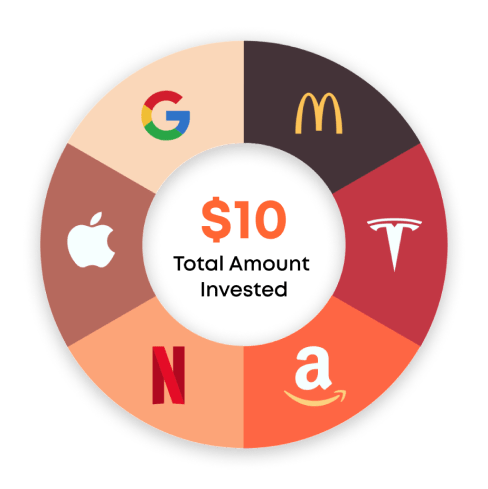
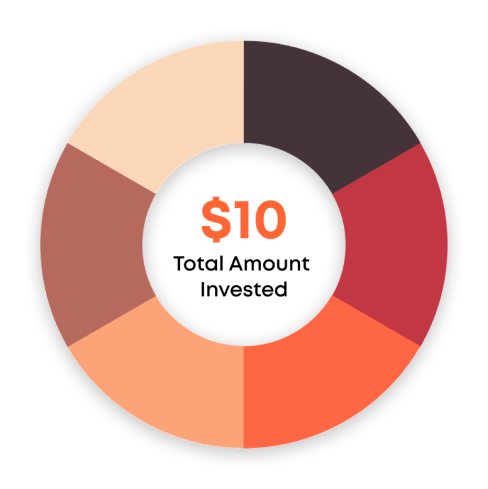
animations

diff --git a/front/style-crypto-pro.css b/front/style-crypto-pro.css
@@ -189,16 +189,44 @@ body{
     }
     .instruction__capital {
         display: inline-flex;
+        opacity: 0;
     }
     .progress {
         display: flex;
         flex-direction: column;
         align-items: center;
     }
+    .progress:nth-child(2){
+        opacity: 0;
+    } 
+    .progress:last-child{
+        opacity: 0;
+    }
     .instruction__top {
         gap: 20px;
     }
+
+    @keyframes text-transform{
+        0%{
+            transform: translate(0px, 80px);
+            opacity: 0;
+        }
+        100%{
+            transform: translate(0px, 0px);
+            opacity: 1;
+        }
+    }
+    .instruction__capital {
+        animation: text-transform 0.8s ease 0.3s forwards;
+    }
+    .progress:nth-child(2){
+        animation: text-transform 0.8s ease 0.6s forwards;
+    } 
+    .progress:last-child{
+        animation: text-transform 0.8s ease 0.9s forwards;
+    }
 }
+
 @media(max-width: 500px) {
     .progress__num {
         font-size: 46px;
@@ -256,6 +284,36 @@ body{
     font-weight: 600;
     line-height: 1.2;
 }
+@media (min-width: 890px) {
+    .instruction__container .section__text-title {
+        opacity: 0;
+    }
+    .instruction__container .section__text-sub-title{
+        opacity: 0;
+    }
+    .instruction__container .section__item-list {
+        opacity: 0;
+    }
+    @keyframes text-transform{
+        0%{
+            transform: translate(0px, 100px);
+            opacity: 0;
+        }
+        100%{
+            transform: translate(0px, 0px);
+            opacity: 1;
+        }
+    }
+    .instruction__container .section__text-title {
+        animation: text-transform 0.8s ease 0.3s forwards;
+    }
+    .instruction__container .section__text-sub-title{
+        animation: text-transform 0.8s ease 0.6s forwards;
+    }
+    .instruction__container .section__item-list {
+        animation: text-transform 0.8s ease 0.9s forwards;
+    }
+}
 
 .section__text-sub-title {
     color: #bebebe;
@@ -306,24 +364,156 @@ body{
 
 /*_________________________________________________________________________-*/
 
-
+.collect__container .section__images-wrapper{
+    min-width: 360px;
+}
 .collect__container > .section{
     flex-direction: row-reverse;
 }
 .collect__container > .section .section__images{
     width: 500px;
     position: relative;
+    border-radius: 50%;
 }
+.collect__container > .section .section__images > img{
+    animation: rotate 18s linear infinite normal 0s;
+}
+.collect__container > .section .section__images:hover > img{
+    animation-play-state: paused;
+}
+
+@keyframes rotate{
+    0%{
+        transform: rotate(0deg);
+    }
+    100%{
+        transform: rotate(360deg);
+    }
+}
+
+.href {
+    border-radius: 50%;
+    position: absolute;
+    top: 0;
+    left: 0;
+    width: 100%;
+    height: 100%;
+    animation: rotate 18s linear infinite normal 0s;
+    z-index: 2;
+}
+.collect__container > .section .section__images:hover .href{
+    animation-play-state: paused;
+}
+
+.collect__container > .section .section__images .href a{
+    font-size: 14px;
+    position: absolute;
+    box-sizing: content-box;
+    padding-bottom: 6px;
+    animation: rotate 18s linear infinite reverse 0s;
+    z-index: 2;
+}
+.collect__container > .section .section__images .href img{
+    object-fit: cover;
+}
+.collect__container > .section .section__images .href a::after{
+    background-color: #000000;
+    transition: all .25s ease;
+    padding: 0 4px;
+    position: absolute;
+    z-index: 2;
+    bottom: 0;
+    right: 50%;
+    transform: translate(50%, 100%);
+    opacity: 0;
+}
+.collect__container > .section .section__images .href a:hover::after{
+    opacity: 1;
+}
+.collect__container > .section .section__images:hover .href a{
+    animation-play-state: paused;
+}
+
+
+.href-apple {
+    width: 10.2%;
+    height: 12.1%;
+    left: 15.2%;
+    top: 43.245%;
+}
+.href-apple::after{
+    content: 'apple';
+}
+.href-google {
+    width: 10.4%;
+    height: 10.6%;
+    left: 29.6%;
+    top: 18.504%;
+}
+.href-google::after {
+    content: 'google';
+}
+.href-mcdonalds {
+    width: 10.2%;
+    height: 9%;
+    right: 30.4%;
+    top: 18.92%;
+}
+.href-mcdonalds::after {
+    content: 'mcdonalds';
+}
+.href-tesla {
+    width: 11.6%;
+    height: 11.2%;
+    right: 14.8%;
+    top: 44.701%;
+}
+.href-tesla::after {
+    content: 'tesla';
+}
+.href-amazon {
+    width: 12.6%;
+    height: 12%;
+    right: 29.6%;
+    bottom: 16.6%;
+}
+.href-amazon::after {
+    content: 'amazon';
+}
+.href-netflix {
+    width: 7.2%;
+    height: 12.474%;
+    left: 31.8%;
+    bottom: 16.6%;
+}
+.href-netflix::after {
+    content: 'netflix';
+}
+
+.material-symbols-outlined{
+    position: absolute;
+    top: 0;
+    opacity: 0;
+    transform: translate(0px, -2px) scale(1.8);
+    color: #ffffff;
+    font-variation-settings:
+    'FILL' 0,
+    'wght' 400,
+    'GRAD' 100,
+    'opsz' 48
+}
+
 .center-circle {
     display: flex;
     flex-direction: column;
     align-items: center;
     justify-content: center;
-    width: 148px;
-    height: 148px;
+    width: 140px;
+    height: 140px;
     border-radius: 50%;
     text-align: center;
     position: absolute;
+    z-index: 0;
     left: 50%;
     top: 50%;
     transform: translate(-50%, -50%);
@@ -341,18 +531,18 @@ body{
 }
 @media (max-width: 1000px) {
     .center-circle__number {
-        font-size: calc(44px + 10 * ((100vw - 700px) / (1000 - 700)));
+        font-size: calc(40px + 14 * ((100vw - 700px) / (1000 - 700)));
     }
     .center-circle__string {
-        font-size: calc(16px + 3 * ((100vw - 700px) / (1000 - 700)));
+        font-size: calc(14px + 5 * ((100vw - 700px) / (1000 - 700)));
     }
 }
 @media (max-width: 700px) {
     .center-circle__number {
-        font-size: 44px;
+        font-size: 40px;
     }
     .center-circle__string {
-        font-size: 16px;
+        font-size: 14px;
     }
 }
 .commission__container > .section .section__images{
@@ -894,8 +1084,11 @@ input{
 }
 
 
-@media screen and (max-width: 719px){
+@media (max-width: 719px){
     .section__text{
         padding-left: 0px;
+    }
+    .material-symbols-outlined {
+        opacity: 1;
     }
 }

diff --git a/front/crypto-pro.html b/front/crypto-pro.html
@@ -15,6 +15,7 @@
     <link rel="stylesheet" href="style-crypto-pro.css">
     <link rel="shortcut icon" href="images/icon.png">
     <link rel="stylesheet" href="common.css">
+    <link rel="stylesheet" href="https://fonts.googleapis.com/css2?family=Material+Symbols+Outlined:opsz,wght,FILL,GRAD@20..48,100..700,0..1,-50..200" />
 </head>
 <body>
     <div class="wrapper">
@@ -80,7 +81,34 @@
                         <div class="section__images-wrapper">
                             <div class="section__images">
                                 <img src="images/collect.png" alt="img">
+                                <div class="href">
+                                    <a class="href-apple"
+                                        href="https://www.apple.com/">   
+                                        <img src="images/apple.png" alt="icon">
+                                    </a>
+                                    <a class="href-google" 
+                                        href="https://www.google.com/intl/ru_ru/business/">
+                                        <img src="images/google.png" alt="icon">
+                                    </a>
+                                    <a class="href-mcdonalds"
+                                        href="https://www.mcdonalds.com/us/en-us.html">
+                                        <img src="images/mcdonalds.png" alt="icon">
+                                    </a>
+                                    <a class="href-tesla"
+                                        href="https://www.tesla.com">
+                                        <img src="images/tesla.png" alt="icon">
+                                    </a>
+                                    <a class="href-amazon"
+                                        href="https://www.amazon.com/">
+                                        <img src="images/amazon.png" alt="icon">
+                                    </a>
+                                    <a class="href-netflix"
+                                        href="https://www.netflix.com">
+                                        <img src="images/netflix.png" alt="icon">
+                                    </a>
+                                </div>
                                 <div class="center-circle">
+                                    <span class="material-symbols-outlined">touch_app</span>
                                     <div class="center-circle__number">$300</div>
                                     <div class="center-circle__string">Total Amount 
                                         <p class='center-circle__sub-string'>Invested</p>
